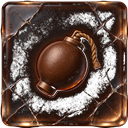
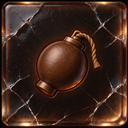
v1.12.9: cannon gem v7 - crop surrounding black only (no transparency), gem fills canvas

diff --git a/js/game/main.js b/js/game/main.js
@@ -49,7 +49,7 @@ if (!ctx) {
 const LOGIC_W = CONFIG.DESIGN.W;      // 750
 const LOGIC_H = CONFIG.DESIGN.H;      // 1334
 const WAVE_DUR = CONFIG.WAVE.seconds; // 40s
-const GAME_VERSION = 'v1.12.8';        // 设置弹层版本信息
+const GAME_VERSION = 'v1.12.9';        // 设置弹层版本信息
 const { SaveManager } = require('../save.js');
 const { WaveDirector } = require('../wave.js');
 const { Match3Controller } = require('../match3.js');
